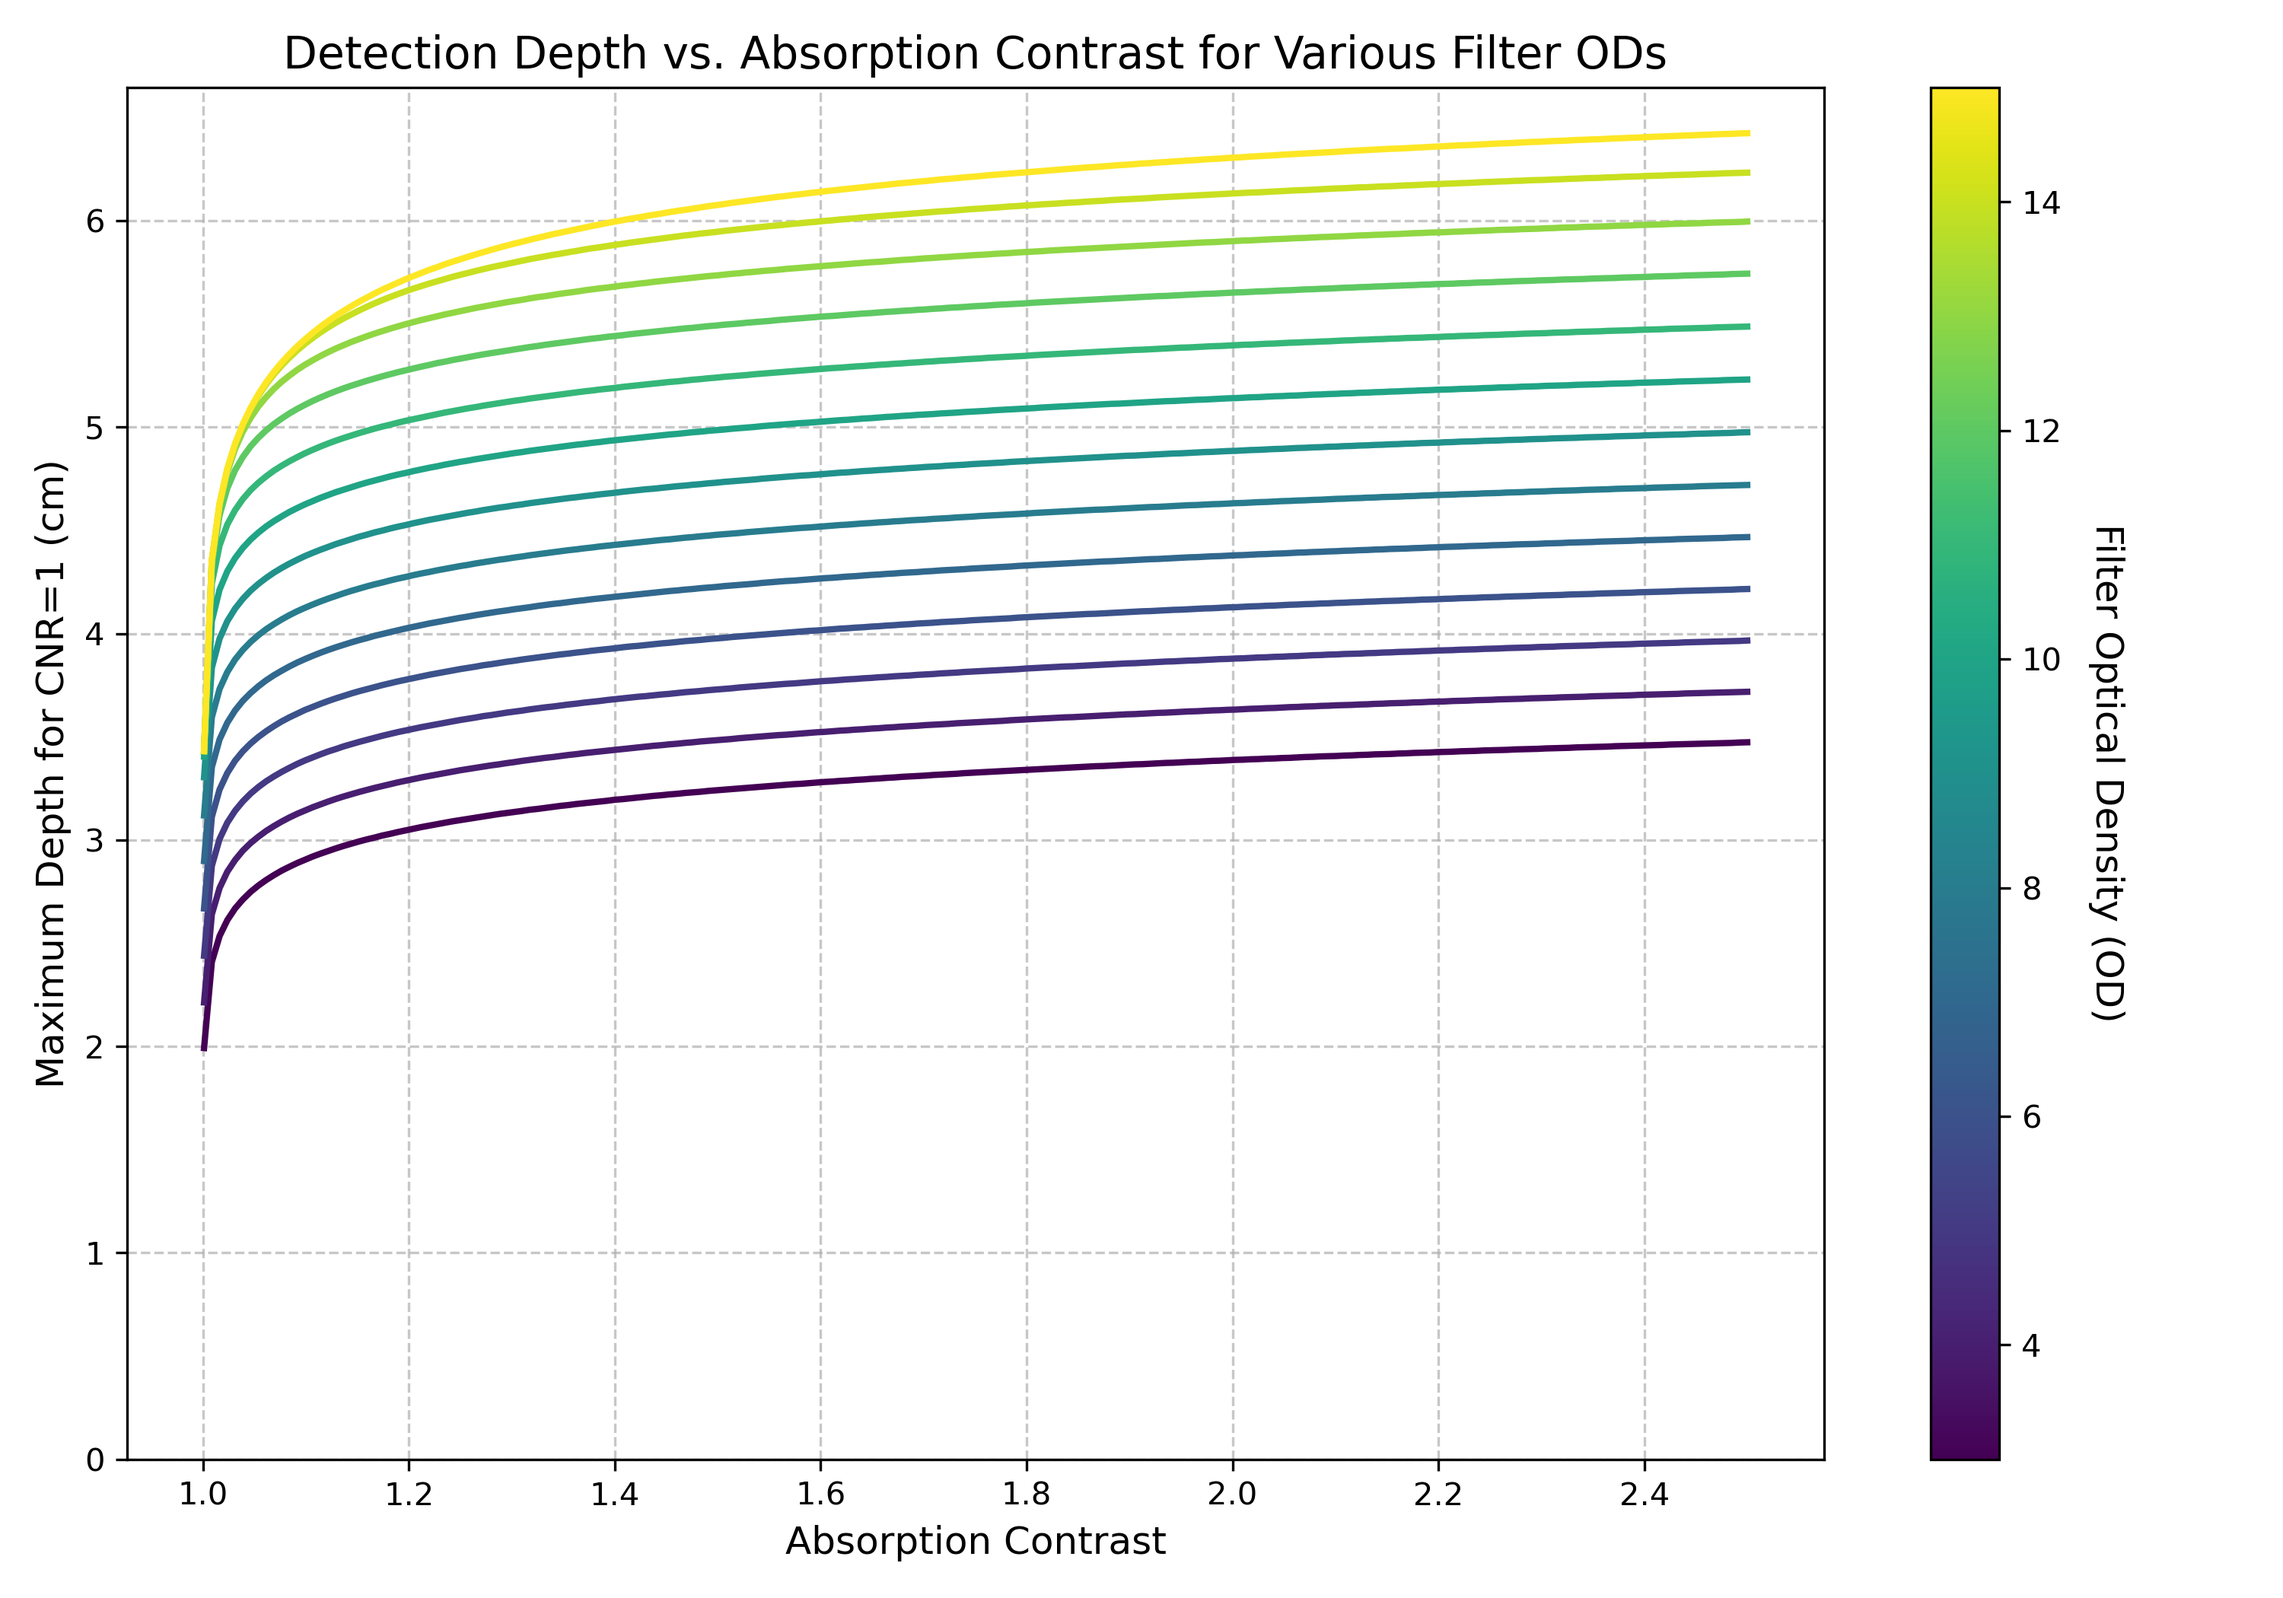
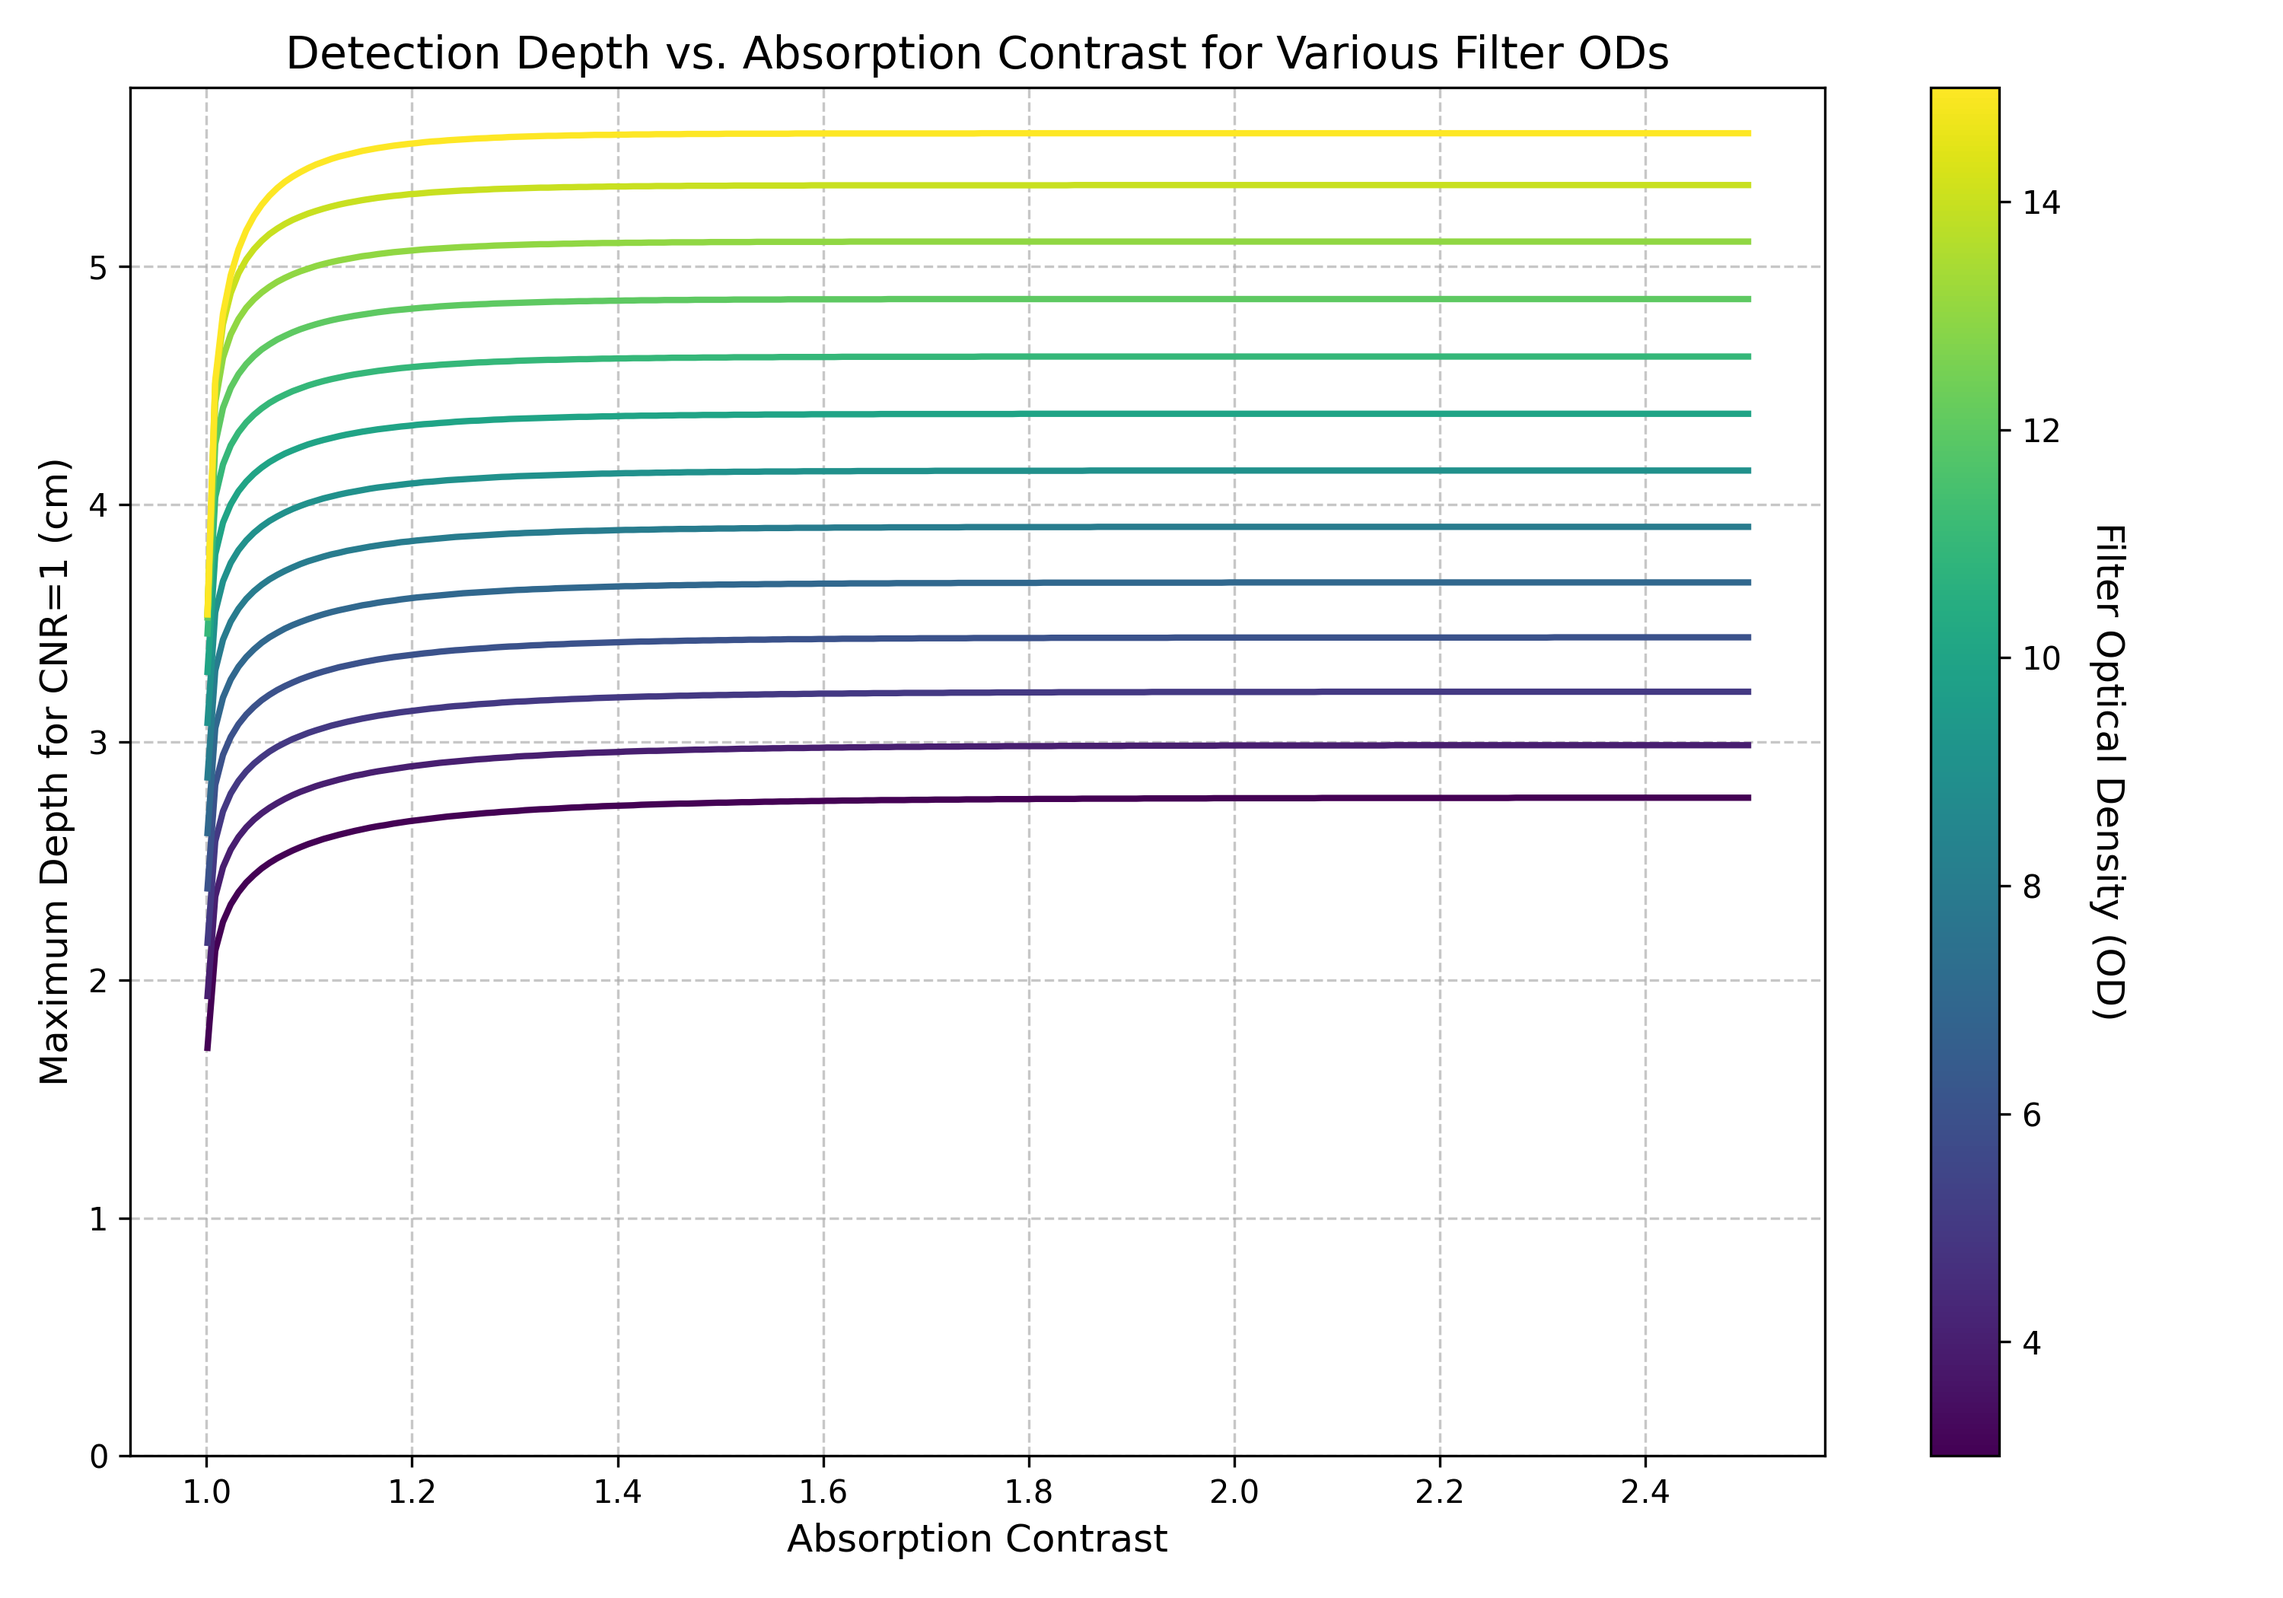
Fix diffusion Green's functions and contrast modeling
- Use correct parameters from Bigio & Fantini (Eq. 14.A.4): prefactor
  uses μ_t' instead of (μ_eff + μ_a), virtual source depth z₀ = 1/μ_s'
  instead of 1/μ_eff
- Fix contrast modeling: recompute tagged photons with increased μ_a
  instead of multiplying baseline (higher absorption = fewer photons)
- Add missing DETECTOR_EFFICIENCY in run_basic_analysis
- Parameterize Green's functions to accept μ_a for contrast calculations

diff --git a/main.py b/main.py
@@ -52,31 +52,43 @@ MU_EFF = np.sqrt(3 * ABSORPTION_COEF * (ABSORPTION_COEF + REDUCED_SCATTERING_COE
 
 
 # %%
-def green_function_forward(z):
-    """Calculate the forward Green's function for photon propagation."""
-    z0 = -1 / MU_EFF
+def green_function_forward(z, mu_a=ABSORPTION_COEF):
+    """Calculate the forward Green's function for photon propagation.
+
+    Simplified semi-infinite Green's function (Bigio & Fantini, Eq. 14.A.4),
+    valid when z >> z0 = 1/mu_s'.
+    """
+    mu_t_prime = mu_a + REDUCED_SCATTERING_COEF
+    mu_eff = np.sqrt(3 * mu_a * mu_t_prime)
+    z0 = -1 / REDUCED_SCATTERING_COEF
     return (
         -3
-        * (MU_EFF + ABSORPTION_COEF)
+        * mu_t_prime
         / (4 * np.pi)
         * 2
         * z
         * z0
-        * (MU_EFF + 1 / z)
-        * np.exp(-MU_EFF * z)
+        * (mu_eff + 1 / z)
+        * np.exp(-mu_eff * z)
         / z**2
     )
 
 
-def green_function_backward(z):
-    """Calculate the backward Green's function for photon propagation."""
-    return 2 * z / (4 * np.pi) * (MU_EFF + 1 / z) * np.exp(-MU_EFF * z) / z**2
+def green_function_backward(z, mu_a=ABSORPTION_COEF):
+    """Calculate the backward Green's function for photon propagation.
+
+    Normal flux at surface from isotropic source at depth z (Bigio & Fantini, Eq. 10.23).
+    """
+    mu_t_prime = mu_a + REDUCED_SCATTERING_COEF
+    mu_eff = np.sqrt(3 * mu_a * mu_t_prime)
+    z0 = 1 / REDUCED_SCATTERING_COEF
+    return z0 / (2 * np.pi) * (mu_eff + 1 / z) * np.exp(-mu_eff * z) / z**2
 
 
-def calc_tagged_photons(z):
+def calc_tagged_photons(z, mu_a=ABSORPTION_COEF):
     """Calculate the number of tagged photons reaching the detector."""
-    forward_loss = green_function_forward(z) * TAGGING_EFFICIENCY * FOCAL_SPOT_SIZE
-    backward_loss = green_function_backward(z) * DETECTOR_AREA
+    forward_loss = green_function_forward(z, mu_a) * TAGGING_EFFICIENCY * FOCAL_SPOT_SIZE
+    backward_loss = green_function_backward(z, mu_a) * DETECTOR_AREA
 
     return SOURCE_PHOTONS * forward_loss * backward_loss * DETECTOR_EFFICIENCY
 
@@ -85,7 +97,7 @@ def calc_cnr(n_tagged_baseline, n_tagged_contrast, n_untagged):
     """Calculate the contrast-to-noise ratio."""
     return (
         np.sqrt(2)
-        * (n_tagged_contrast - n_tagged_baseline)
+        * np.abs(n_tagged_contrast - n_tagged_baseline)
         / np.sqrt(n_tagged_baseline + n_tagged_contrast + n_untagged)
     )
 
@@ -104,7 +116,7 @@ def run_basic_analysis(depth_mm=10):
     backward_loss = green_function_backward(depth_mm) * DETECTOR_AREA
 
     # Calculate detector power and number of tagged photons
-    detected_power = SOURCE_POWER * forward_loss * backward_loss
+    detected_power = SOURCE_POWER * forward_loss * backward_loss * DETECTOR_EFFICIENCY
     tagged_photons = detected_power / PHOTON_ENERGY
 
     # Display results
@@ -145,7 +157,7 @@ def simulate_depth_vs_contrast():
     contrasts = np.linspace(1.001, 2.5, 200)
 
     # Precompute tagged photons for all depths
-    n_tagged_baseline = np.array([calc_tagged_photons(z) for z in depths_mm])
+    n_tagged_baseline = calc_tagged_photons(depths_mm)
 
     def compute_depth_for_cnr1(filter_od):
         """Compute maximum depth for CNR=1 across different contrast values."""
@@ -154,8 +166,9 @@ def simulate_depth_vs_contrast():
 
         depths_cm = []
         for contrast in contrasts:
-            # Calculate tagged photons with contrast
-            n_tagged_contrast = n_tagged_baseline * contrast
+            # Calculate tagged photons with increased absorption
+            mu_a_contrast = ABSORPTION_COEF * contrast
+            n_tagged_contrast = calc_tagged_photons(depths_mm, mu_a_contrast)
 
             # Calculate CNR for each depth
             cnr_values = calc_cnr(n_tagged_baseline, n_tagged_contrast, n_untagged)
@@ -206,5 +219,44 @@ def simulate_depth_vs_contrast():
 
 # Run the simulation
 simulate_depth_vs_contrast()
+
+
+# %% [markdown]
+# ## CNR vs. Filter OD
+
+
+# %%
+def plot_cnr_vs_od(contrast=1.1, depth_cm=2):
+    """Plot CNR as a function of filter OD for a given absorption contrast and depth."""
+    depth_mm = depth_cm * 10
+    filter_ods = np.linspace(1, 15, 1000)
+
+    n_tagged_baseline = calc_tagged_photons(depth_mm)
+    mu_a_contrast = ABSORPTION_COEF * contrast
+    n_tagged_contrast = calc_tagged_photons(depth_mm, mu_a_contrast)
+
+    cnr_values = np.array([
+        calc_cnr(n_tagged_baseline, n_tagged_contrast, calc_untagged_photons(od))
+        for od in filter_ods
+    ])
+
+    fig, ax = plt.subplots(figsize=(8, 5))
+    ax.plot(filter_ods, cnr_values, linewidth=2)
+    ax.axhline(y=1, color="r", linestyle="--", alpha=0.7, label="CNR = 1")
+    ax.set_xlabel("Filter Optical Density (OD)", fontsize=12)
+    ax.set_ylabel("CNR", fontsize=12)
+    ax.set_title(
+        f"CNR vs. Filter OD (contrast={contrast}, depth={depth_cm} cm)", fontsize=14
+    )
+    ax.set_yscale("log")
+    ax.grid(True, linestyle="--", alpha=0.7)
+    ax.legend(fontsize=11)
+
+    plt.tight_layout()
+    plt.savefig("cnr_vs_od.png", dpi=300)
+    plt.show()
+
+
+plot_cnr_vs_od(contrast=1.1, depth_cm=2)
 
 # %%
